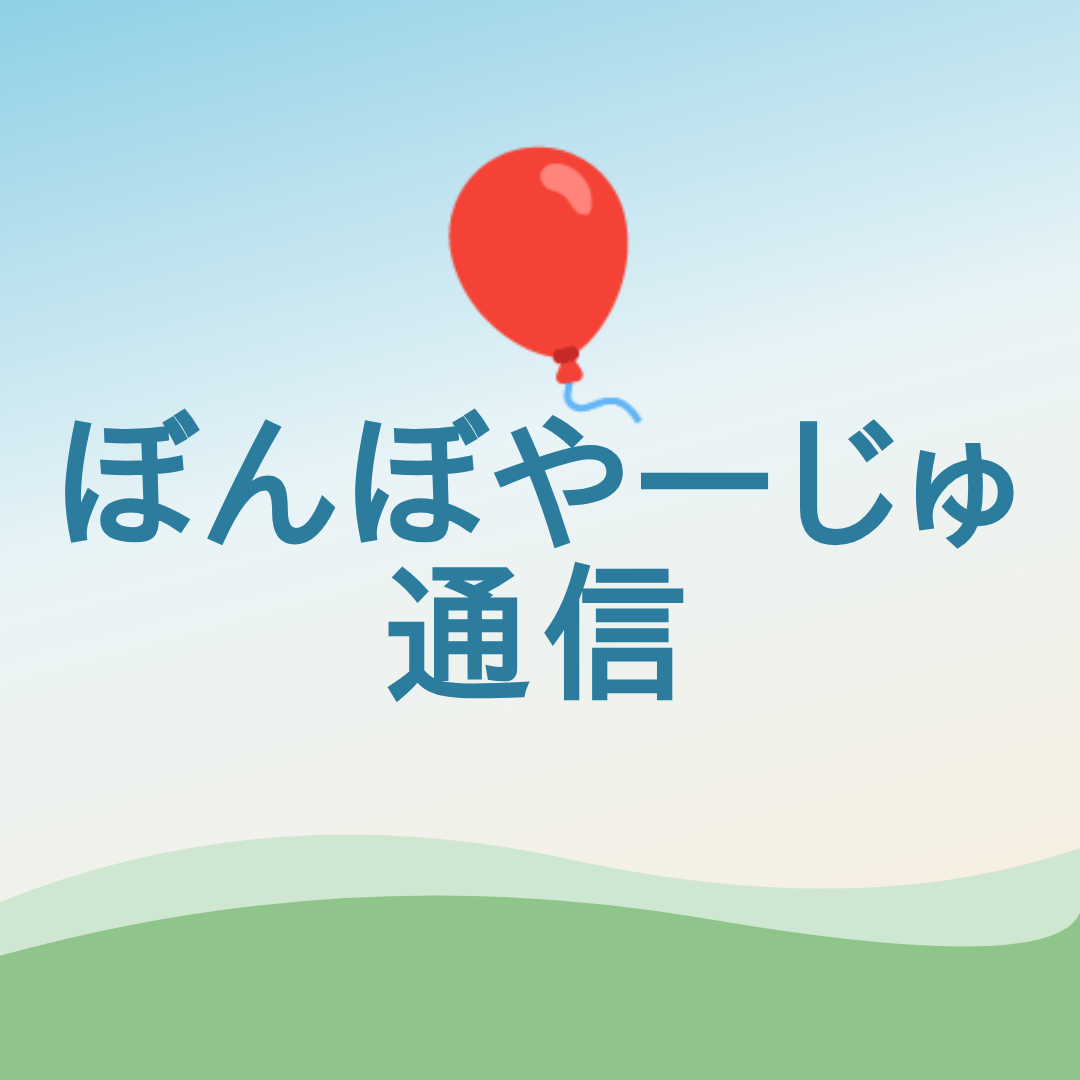
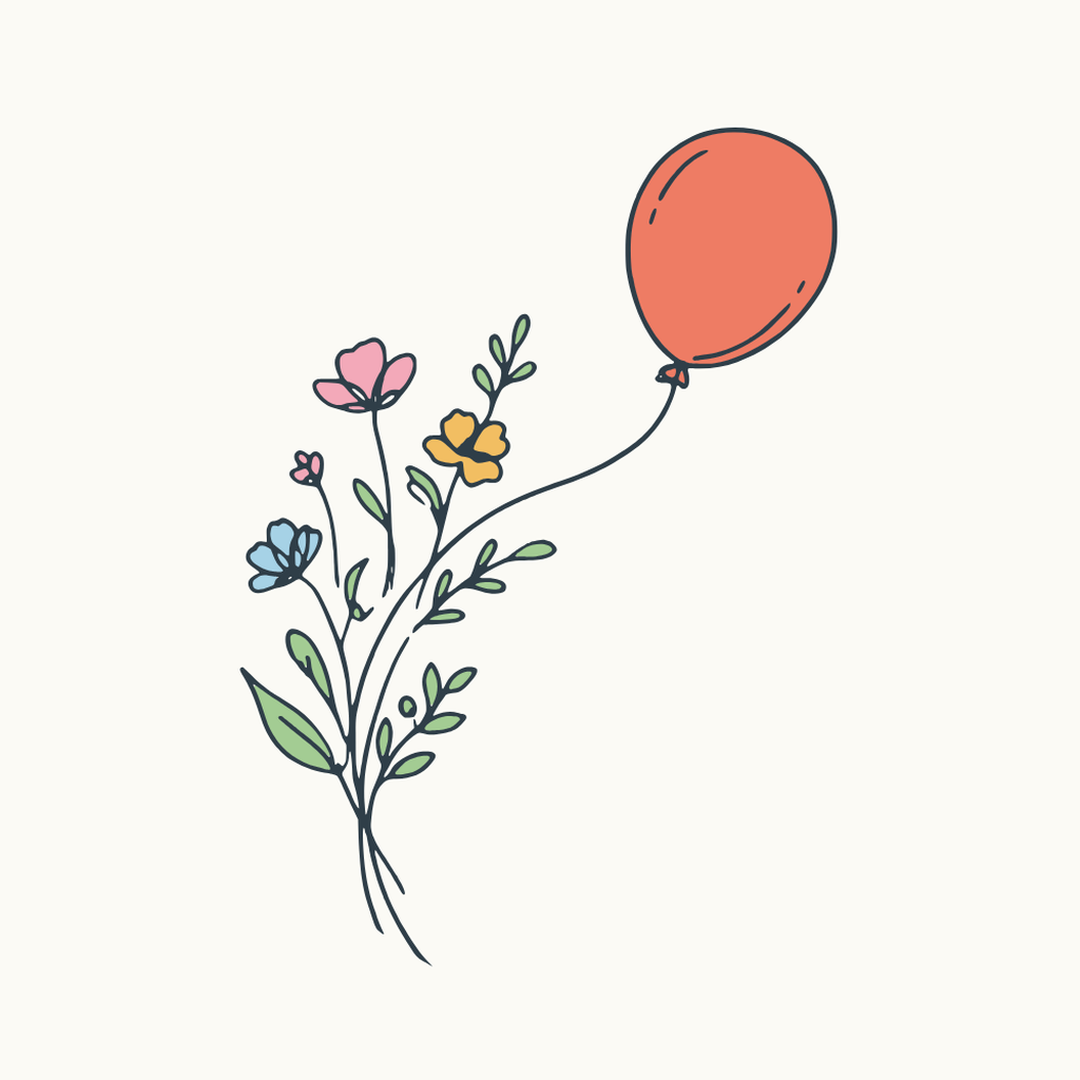
ロゴ決定（案29）: ファビコン・LINE/note/Metaのアイコン画像を差し替え
Claude-Session: https://claude.ai/code/session_01TyaNTcqynAhK5RxtQUWRVv

diff --git a/docs/logo-canva-prompt.md b/docs/logo-canva-prompt.md
@@ -145,3 +145,6 @@ A simple hand-drawn logo mark for a small local newsletter that tells families a
 
 🔴 差し替え（ファビコン・note・Meta・チラシ・ホームページ）は**オーナーのOKのあと**。水曜は 9:00 の配信が終わってから。
 
+**✅ 2026-11-04 オーナー「これでokです！決定！」（案29・カラー全体塗り・日本語が上）。**
+差し替えた: ファビコン（`docs/homepage/favicon.svg`・アイコンを128pxで埋め込み）／`assets/line-icon.png`／`assets/note-icon.png`／`docs/print/meta-app-icon-1024.png`（どれも `icon-color-1024.png` から）。
+オーナーが設定するもの: LINE 公式アカウント・Threads・Instagram・note のアイコン（`icon-color-1024.png`）。チラシの見出しへの差し込みは次にチラシを刷り直すとき。
